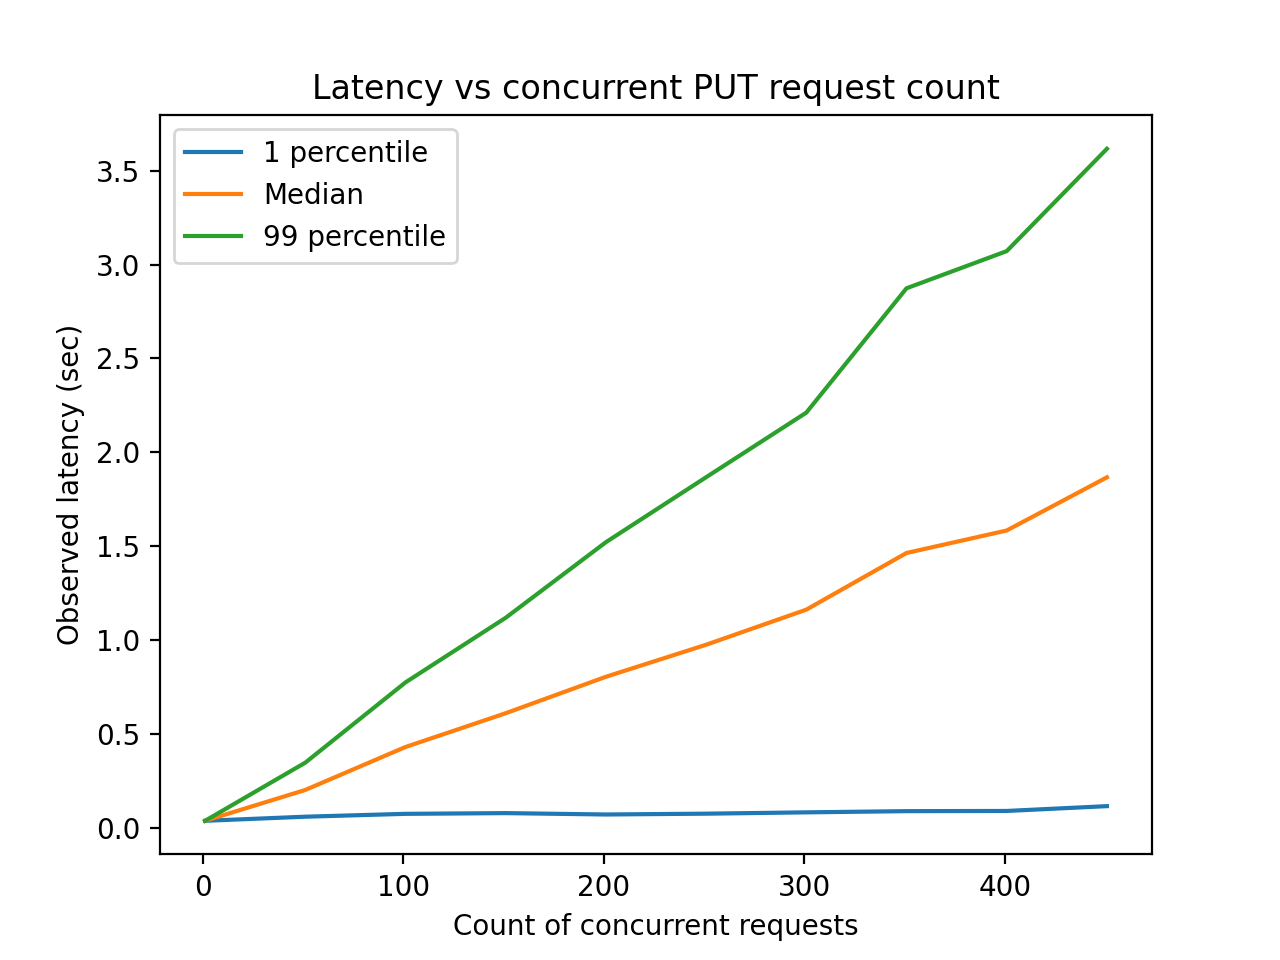
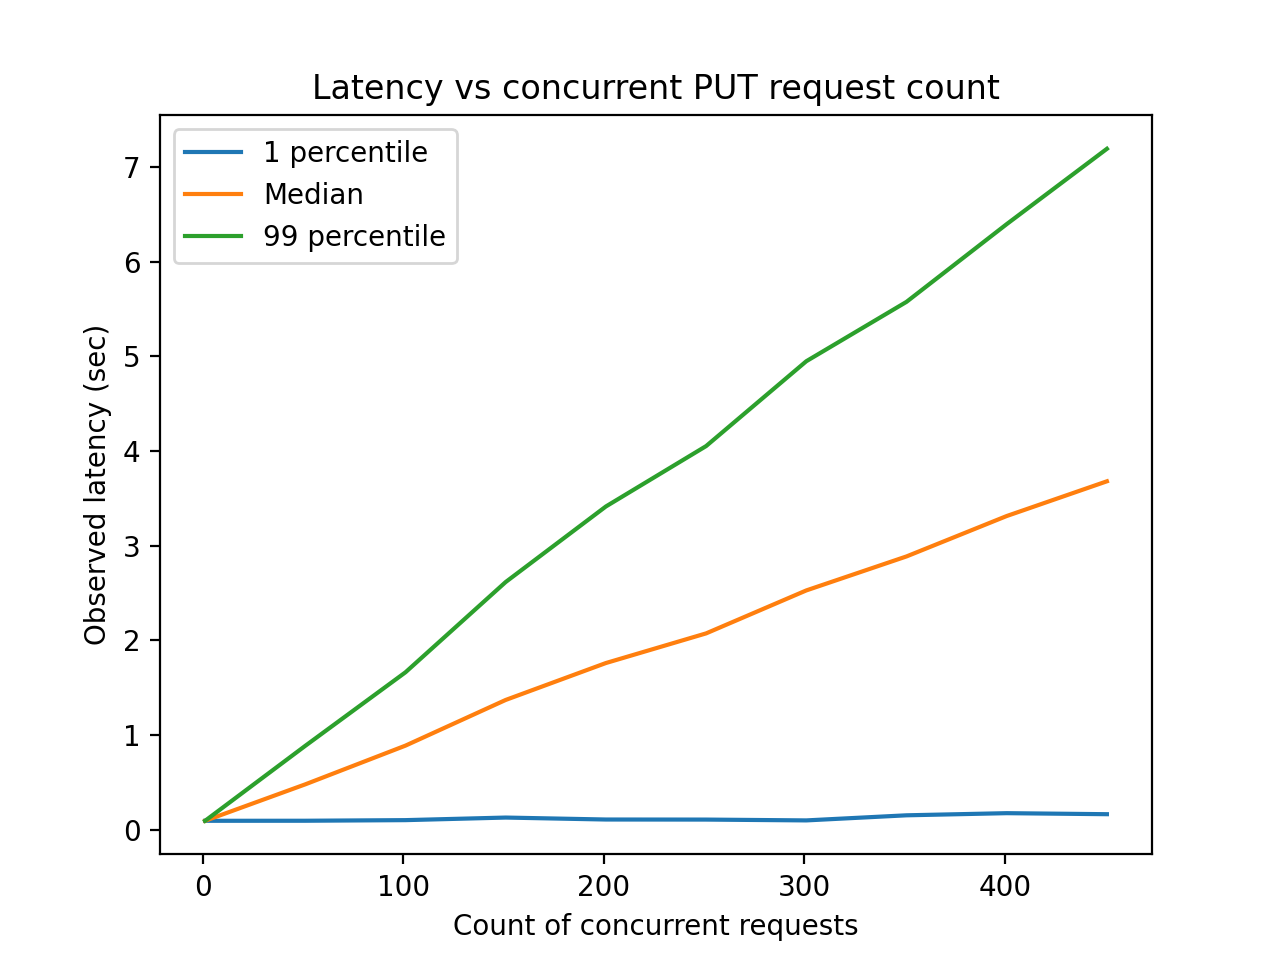
Add perf changes

diff --git a/client/perf.py b/client/perf.py
@@ -15,6 +15,7 @@ import numpy as np
 from math import factorial
 
 NUM_SERVERS = 5
+REP_COUNT = 20
 
 
 def restart_cluster(remove_logs=True):
@@ -209,24 +210,25 @@ def collect_put_lat_thrp():
 def collect_get_overhead_from_dur_log():
     
     x, y = [], []
-    
+    iter_v = random.randrange(0, pow(10,10))
+
     for put_count in range(0, 1000, 100):
+        print("PUT: ", put_count)
         batch = []
         if put_count > 0:
             with ThreadPoolExecutor(max_workers=put_count) as executor:
                 key = f"KEY-{random.randint(1, pow(10, 8))}"
                 future_calls = {executor.submit(
-                    perf_client.send_put, key, key) for _ in range(put_count)}
+                    perf_client.send_put, key, key, False) for _ in range(put_count)}
                 for completed_task in as_completed(future_calls):
                     batch.append(completed_task.result())
         
         last_key_v = random.randrange(pow(10,9), pow(10,15))
         key = f"KEY-{put_count}-{last_key_v}"
         val = f"VAL-{put_count}-{last_key_v}"
+    
         
-        time.sleep(1)
-        
-        r = perf_client.send_put(key, val, True) 
+        r = perf_client.send_put(key, val, False) 
         print(f"Sent PUT {key}:{val}")
 
         t1 = time.time()
@@ -246,6 +248,51 @@ def collect_get_overhead_from_dur_log():
     plt.ylabel("Read latency")
     plt.savefig(f'graphs/durability-log-read-latency.png')
     plt.clf()
+
+
+
+def collect_read_write_mix():
+    x, y = [], []
+    iter_k = random.randrange(0, pow(10,10))
+    
+    max_op_count = 100
+    window_step_size = 2
+    
+    done = set()
+    x, read_lat = [], []
+    for window_count in range(1, max_op_count, window_step_size):
+        print('WINDOW ', window_count)
+        reps = max_op_count//window_count
+        if reps in done: continue
+        done.add(reps)
+        
+        print(window_count, reps)
+        for w in range(window_count):
+            
+            read_lat_sample = []
+            for r in range(reps):
+                key = f"TTTT{iter_k}-{window_count}:{w}:{r}"
+                perf_client.send_put(key, key, False)
+                
+            for r in range(reps, -1, -1):
+                key = f"TTTT{iter_k}-{window_count}:{w}:{r}"
+                t1 = time.time()
+                perf_client.send_put(key, key)
+                read_lat_sample.append(time.time() - t1)
+        
+        x.append(window_count)
+        read_lat.append(np.median(read_lat_sample))
+        print(x, read_lat)
+                
+    plt.plot(x, read_lat, label="Read Lat")
+
+    plt.title("X")
+    plt.xlabel("Windows")
+    plt.ylabel("Read latency")
+    plt.savefig(f'graphs/test.png')
+    #plt.show()
+    plt.clf()
+
 
 
 def plot_put_throughput():
@@ -911,12 +958,15 @@ def smoothen(y, window_size, order, deriv=0, rate=1):
 
 def collect_put_lat_thrp_nilext():
     latencies, batch_throughputs = [], []
+    iter_k = random.randrange(0, pow(10,10))
     for thread_count in range(1, 500, 50):
-        restart_cluster()
+        print("LAT1 ", thread_count)
+        #restart_cluster()
+        #time.sleep(1)
         batch = []
-        print(f"Testing PUT with {thread_count} threads")
+
         with ThreadPoolExecutor(max_workers=thread_count) as executor:
-            key = f"KEY-{random.randint(1, pow(10, 10))}"
+            key = f"KEY{iter_k}-{random.randint(1, pow(10, 10))}"
             t1 = time.time()
             future_calls = {executor.submit(
                 perf_client.send_put, key, key, True) for _ in range(thread_count)}
@@ -924,15 +974,17 @@ def collect_put_lat_thrp_nilext():
                 batch.append(completed_task.result())
             t2 = time.time()
             batch_throughputs.append((thread_count, thread_count / (t2 - t1)))
+            
+            
         latencies.append((thread_count, batch))
         
     nilext_latencies, nilext_batch_throughputs = [], []
     for thread_count in range(1, 500, 50):
-        restart_cluster()
+        print("LAT2 ", thread_count)
         batch = []
         print(f"Testing NILEXT PUT with {thread_count} threads")
         with ThreadPoolExecutor(max_workers=thread_count) as executor:
-            key = f"KEY-{random.randint(1, pow(10, 10))}"
+            key = f"KEY{iter_k}-{random.randint(1, pow(10, 10))}"
             t1 = time.time()
             future_calls = {executor.submit(
                 perf_client.send_put, key, key, False) for _ in range(thread_count)}
@@ -958,8 +1010,7 @@ def collect_put_lat_thrp_nilext():
     with open(f'data/{NUM_SERVERS}-server-PUT-parallel-max-latency.pickle', 'wb') as f:
         pickle.dump((x, [y[3] for y in latencies]), f)
 
-    # # # Nilext
-
+    ### Nilext
     x, y = zip(*nilext_batch_throughputs)
     with open(f'data/{NUM_SERVERS}-server-nilext-PUT-parallel-throughputs.pickle', 'wb') as f:
         pickle.dump((x, y), f)
@@ -1036,6 +1087,14 @@ if __name__ == "__main__":
     # plot_internal_latency()
     # plot_internal_call_distribution()
     
+    # restart_cluster()
+    # collect_put_lat_thrp_nilext()
+    # plot_put_latency_3_server()
+    # plot_put_latency_3_server("-nilext")
+    # plot_put_throughput_nilext()
     
-    restart_cluster()
-    collect_get_overhead_from_dur_log()
+    # restart_cluster()
+    # collect_get_overhead_from_dur_log()
+    
+    # restart_cluster()
+    collect_read_write_mix()

diff --git a/server/raft/kv_server.py b/server/raft/kv_server.py
@@ -13,6 +13,7 @@ from .node import raft_node
 from .utils import *
 from .stats import stats
 from threading import Thread
+import random
 
 sys.path.append('../../')
 import kvstore_pb2
@@ -69,16 +70,17 @@ class KVStoreServicer(kvstore_pb2_grpc.KVStoreServicer):
 
     def Put(self, request, context):
         log_me(f"Put {request.key} {request.value}")
-        dur_log_manager.append("PUT", request.key, request.value)
 
         if request.is_non_nil_ext is not None and request.is_non_nil_ext == True:
-            print(" **** EXECUTED NON NIL EXT ******")
+            #print(" **** EXECUTED NON NIL EXT ******")
             is_consensus, error = raft_node.serve_put_request(request.key, request.value)
             if is_consensus: self.sync_kv_store_with_logs()
             else: error = "No consensus was reached. Try again."
             return kvstore_pb2.PutResponse(error=error)
         else:
-            print(" **** EXECUTED NIL EXT ******")
+            #print(" **** EXECUTED NIL EXT ******")
+            time.sleep(random.uniform(0.01, 0.011))
+            dur_log_manager.append("PUT", request.key, request.value)
             return kvstore_pb2.PutResponse()
 
     # Not supported with Nil-ext at the moment
@@ -125,12 +127,12 @@ class KVStoreServicer(kvstore_pb2_grpc.KVStoreServicer):
                     error = "No consensus was reached. Try again."
                     print(error)
 
-        # Put for Entry already executed
-        # Can be done in a separate thread.
-        self.sync_kv_store_with_logs()
-        log_me(f"Get call for {request.key} Sync done")
-        if request.key == "FLUSH_CALL_STATS":
-            stats.flush()
+            # Put for Entry already executed
+            # Can be done in a separate thread.
+            self.sync_kv_store_with_logs()
+            log_me(f"Get call for {request.key} Sync done")
+            if request.key == "FLUSH_CALL_STATS":
+                stats.flush()
 
         with self.kv_store_lock:
             cached_val = self.client.get(request.key)

diff --git a/server/raft/node.py b/server/raft/node.py
@@ -4,6 +4,7 @@ from .transport import transport
 from .log_manager import *
 from .stats import stats
 from .dur_log_manager import dur_log_manager
+import random
 
 # from .election import *
 
@@ -14,6 +15,7 @@ class RaftNode:
         """Returns tuple: (success (bool), error message) TODO: Redirect to leader node."""
         log_item = LogEntry(globals.current_term, key, value, is_multi_cmd)
 
+        time.sleep(random.uniform(0.01,0.011))
         index = log_manager.append(log_item)
         log_me("Finished append")
 

diff --git a/server/raft/utils.py b/server/raft/utils.py
@@ -20,4 +20,5 @@ def log_me(log: str):
     # # Add a print lock?
     # # return
     # pass
-    print(f"[LOG]: {datetime.now()} {log}")
+    #print(f"[LOG]: {datetime.now()} {log}")
+    pass
